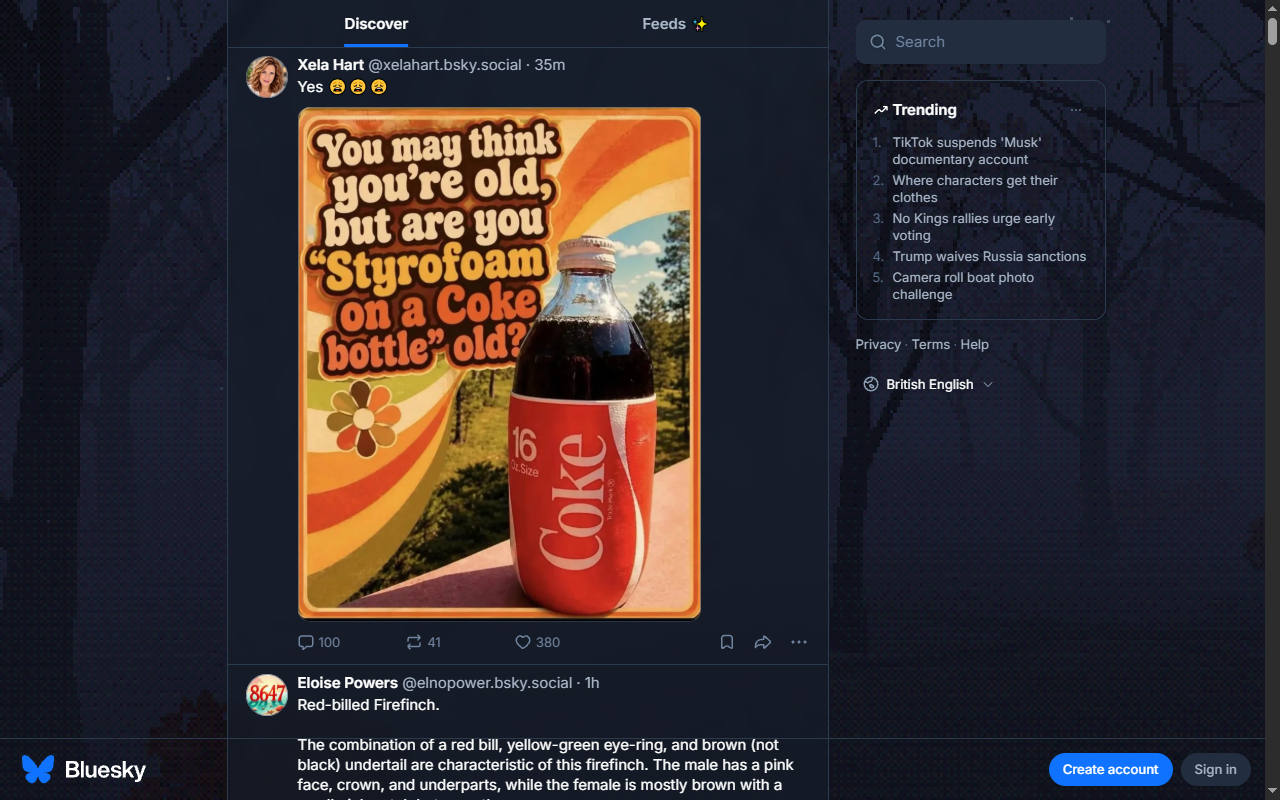
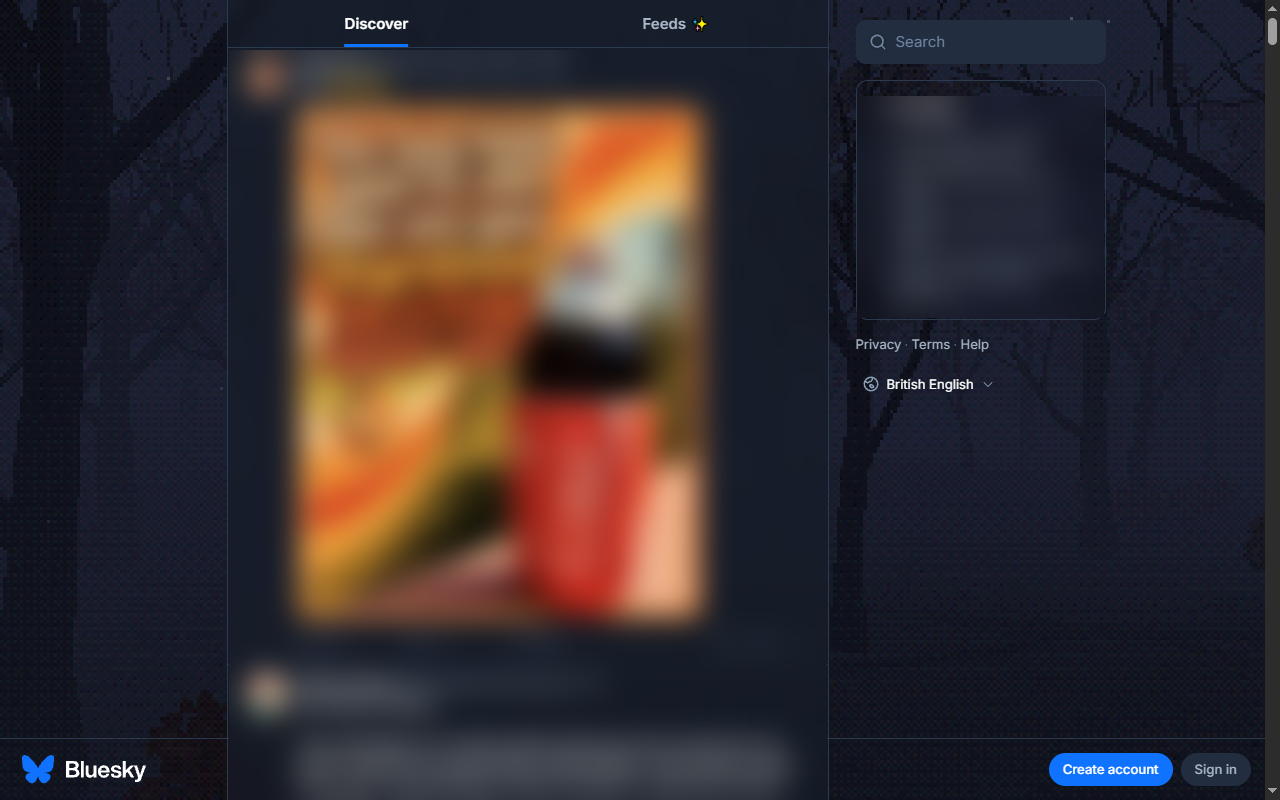
skytreeone: privacy page, ATStore listing images, blur third-party posts in screenshots

Changed region(s): [[0.1875, 0.0625, 0.625, 1.0], [0.6875, 0.0938, 0.8438, 0.375]]

diff --git a/skytreeone/README.md b/skytreeone/README.md
@@ -33,7 +33,7 @@ Then in Chrome or Edge, open `chrome://extensions`, turn on **Developer mode**, 
 - Bluesky paints its page colour inline on many nested panels. Each panel whose colour equals the page colour is made transparent, plus the navigation screens' near-black backdrop. A `MutationObserver` keeps up as you scroll and navigate. Fixed overlays like the image viewer are left alone.
 - A translucent, blurred panel in the page colour sits behind the feed column, and a faint veil (stronger on the light theme) plus a soft text halo keeps the side columns readable.
 - `build.py` copies `web/` (playtreeone, a git submodule) into the extension. Extensions can't load code from a CDN, so three.js and lil-gui are vendored in `vendor/` and the bare imports are rewritten to local paths.
-- Nothing is sent anywhere: no login, no account access, no analytics. Live weather is off.
+- Nothing is sent anywhere: no login, no account access, no analytics. Live weather is off. See [PRIVACY.md](PRIVACY.md).
 
 After changing playtreeone: `git submodule update --remote web`, then `python build.py`.
 

diff --git a/skytreeone/PRIVACY.md b/skytreeone/PRIVACY.md
@@ -1,0 +1,14 @@
+# skytreeone privacy
+
+skytreeone collects nothing.
+
+- It has no login and never asks for or touches your Bluesky account.
+- It sends nothing anywhere: no analytics, no tracking, no servers of its own.
+- The forest runs entirely inside your browser from files bundled with the extension.
+- It only runs on `bsky.app`. It doesn't read your posts, messages or feed; it only changes how the page's backgrounds look.
+- Your settings (sound, volume, scene length and so on) are kept by your browser's own extension storage (`chrome.storage.sync`), which your browser may sync between your own devices if you're signed in to it.
+- The sun, moon and stars use an approximate location estimated on your device from its time zone. It never leaves your device.
+
+If a future version reads public Bluesky activity (for example, live posts appearing in the forest), this page will be updated before that ships.
+
+Questions: open an issue at https://github.com/TechyBen/tbsky/issues.
